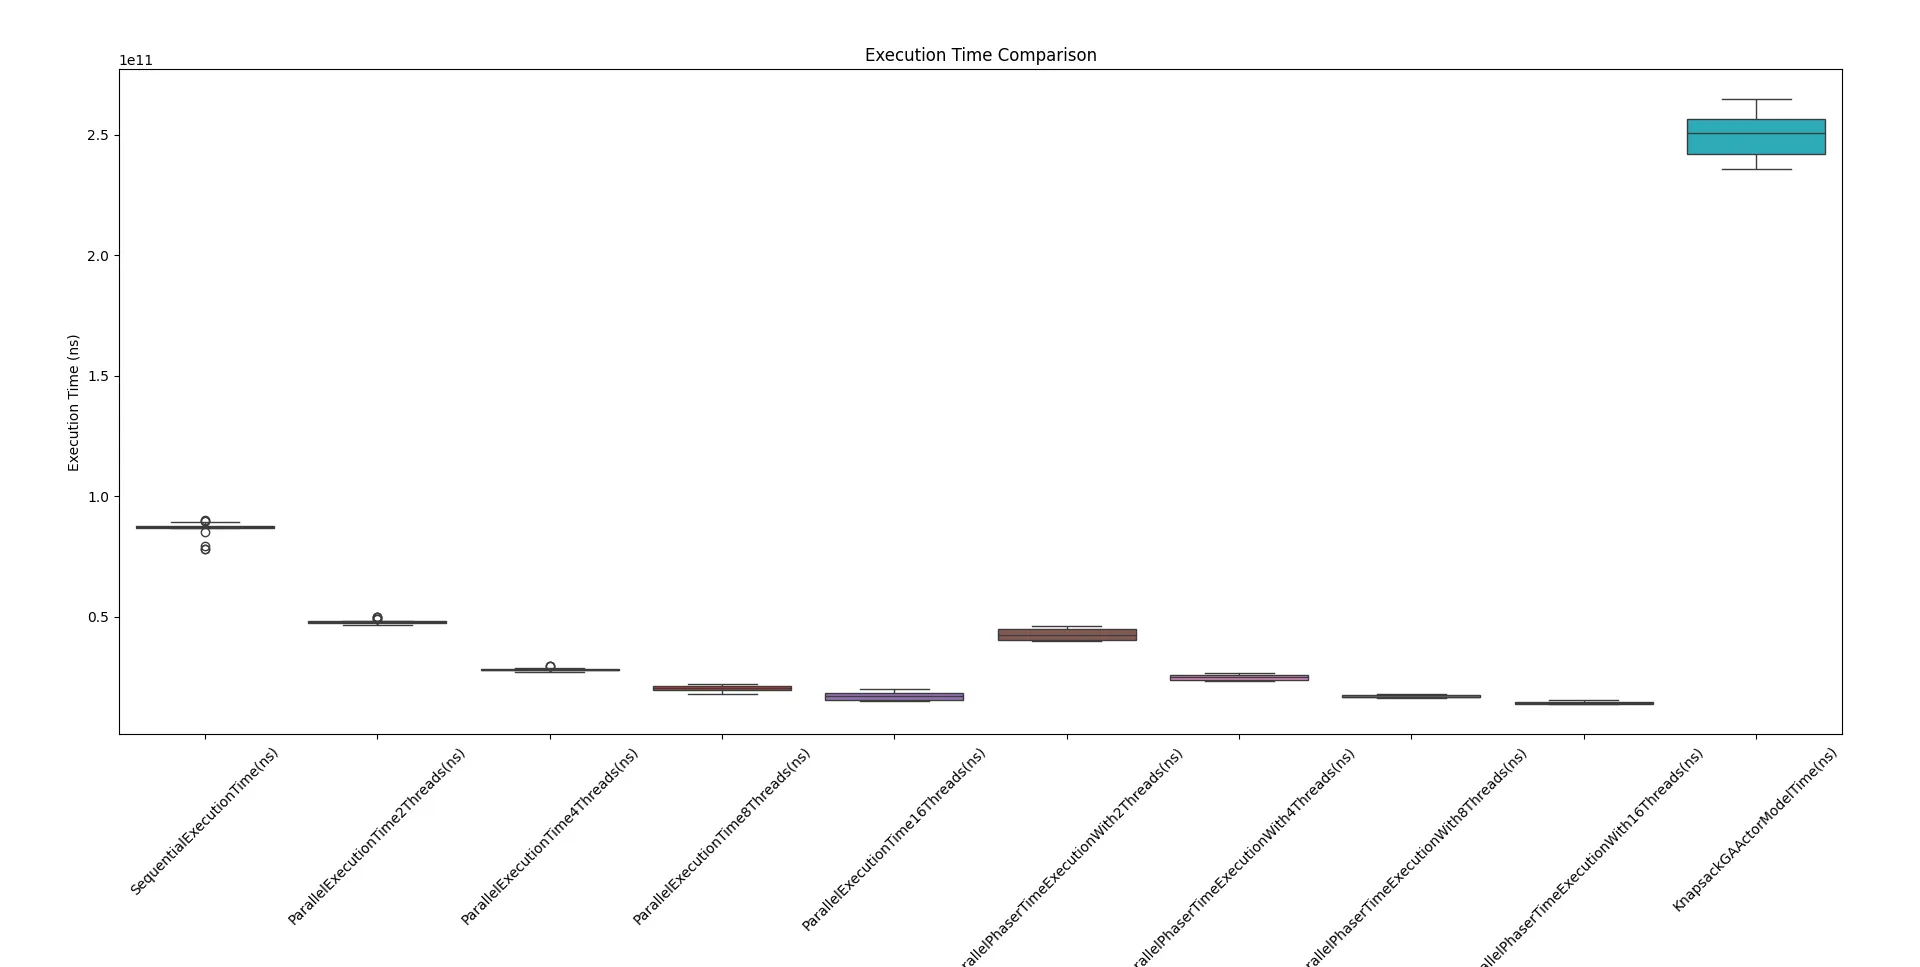
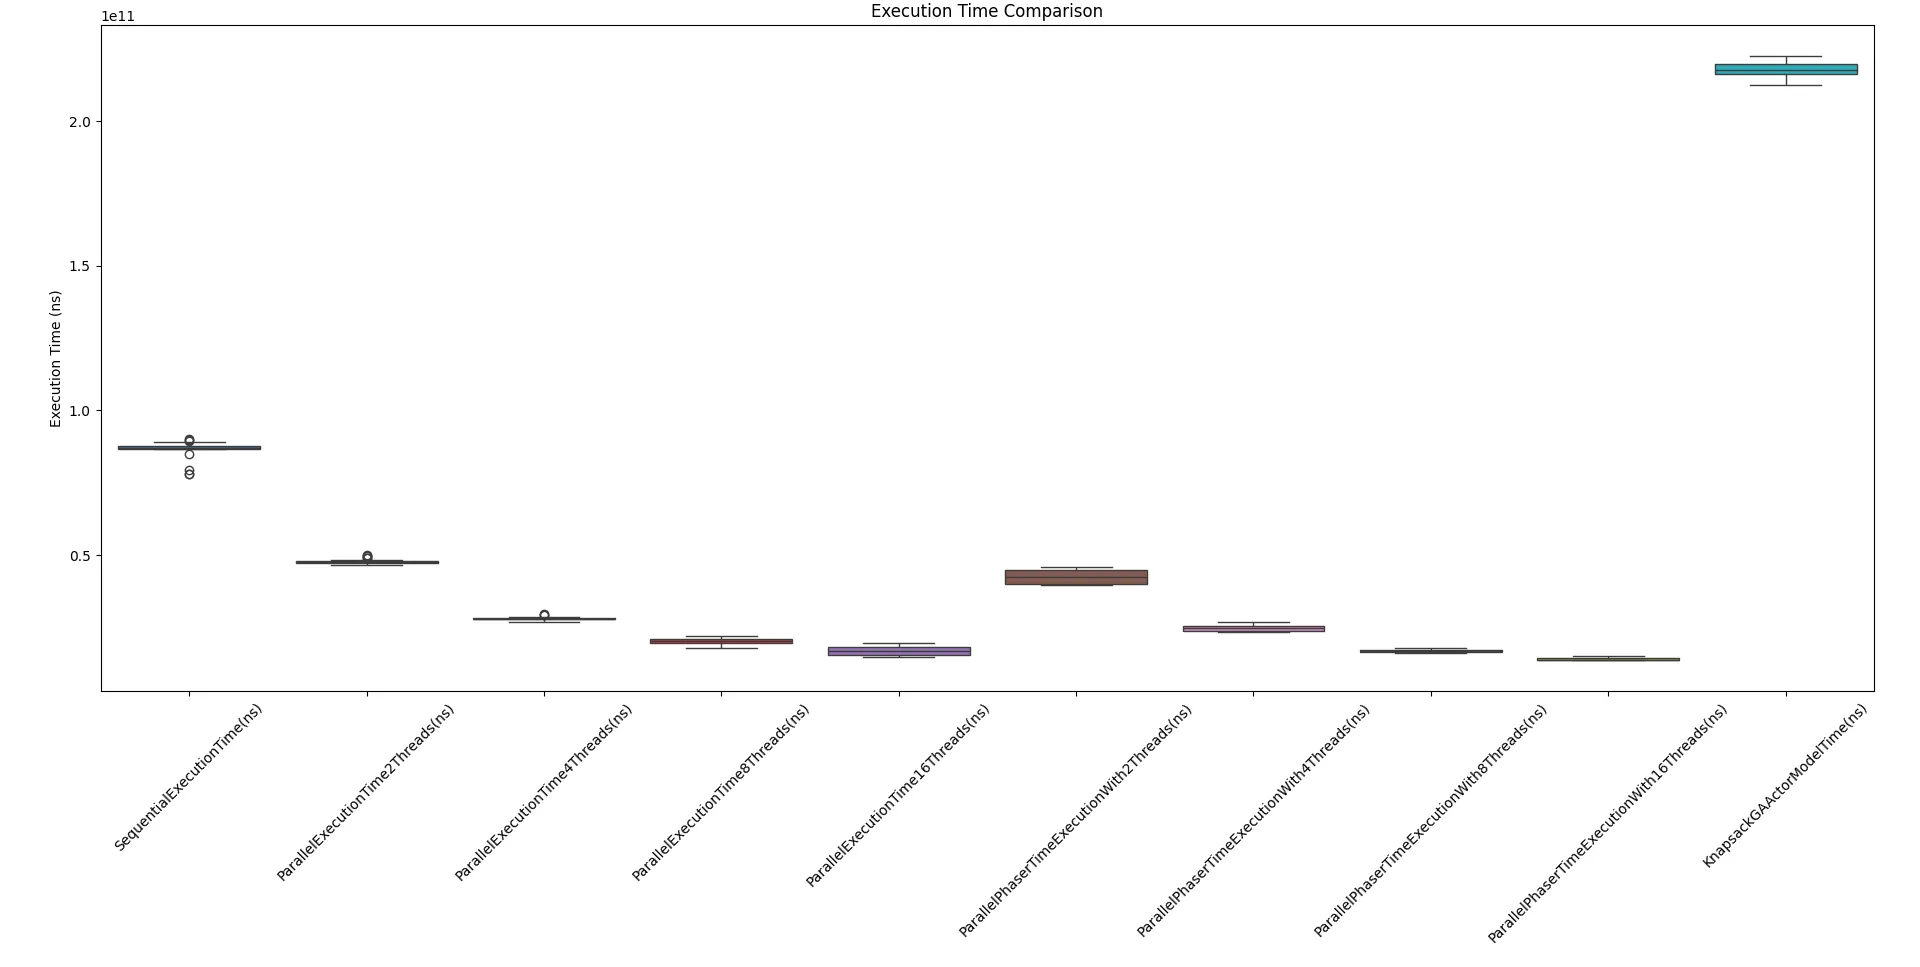
Finalização da ultima versão dos plots

diff --git a/KnapsackGAActorModel/data/execution_analysis.py b/KnapsackGAActorModel/data/execution_analysis.py
@@ -9,10 +9,10 @@ from scipy.stats import mannwhitneyu, wilcoxon, kruskal, friedmanchisquare
 ## Assignment #1: Genetic Algorithm for the Knapsack Problem
 ## PPC
 
-data = pd.read_csv('execution_times.csv') 
-#data2 = pd.read_csv('KnapsackGAActorModelExecutionTimes.csv')
-#data['KnapsackGAActorModelTime(ns)'] = data2['KnapsackGAActorModelTime(ns)']
-
+data = pd.read_csv('data/execution_times.csv') 
+data2 = pd.read_csv('data/KnapsackGAActorModelExecutionTimes.csv')
+data['KnapsackGAActorModelTime(ns)'] = data2['KnapsackGAActorModelTime(ns)']
+mean_KnapsackGAActorModelTime= data['KnapsackGAActorModelTime(ns)'].mean()
 #data.to_csv("execution_times.csv", index=False)
 
 
@@ -39,11 +39,16 @@ data['ParallelPhaser8ThreadsImprovement(%)'] = (sequential_time - data['Parallel
 data['ParallelPhaser16ThreadsImprovement(%)'] = (sequential_time - data['ParallelPhaserTimeExecutionWith16Threads(ns)']) / sequential_time * 100
 data['KnapsackGAActorModelImprovement(%)'] = (sequential_time - data['KnapsackGAActorModelTime(ns)']) / sequential_time * 100
 
+mean_KnapsackGAActorModelImprovement = data['KnapsackGAActorModelImprovement(%)'].mean()
+
+
 
 columns_to_plot = ['Parallel2ThreadsImprovement(%)', 'Parallel4ThreadsImprovement(%)',
                    'Parallel8ThreadsImprovement(%)', 'Parallel16ThreadsImprovement(%)',
                    'ParallelPhaser2ThreadsImprovement(%)', 'ParallelPhaser4ThreadsImprovement(%)',
                    'ParallelPhaser8ThreadsImprovement(%)', 'ParallelPhaser16ThreadsImprovement(%)','KnapsackGAActorModelImprovement(%)']
+
+
 
 plt.figure(figsize=(10, 8))
 data_to_plot = data[columns_to_plot]
@@ -127,5 +132,10 @@ else:
     print('Wilcoxon: There is no statistically significant difference between Sequential and 2Threads.\n')
     
     
+print("################# ASSIGNMENT 3##############")
+print("Tempo de execução médio:",mean_KnapsackGAActorModelTime)
+print("Valor médio de improvement:",mean_KnapsackGAActorModelImprovement)
+
+
 
 
